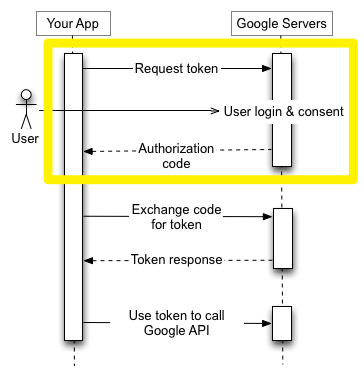
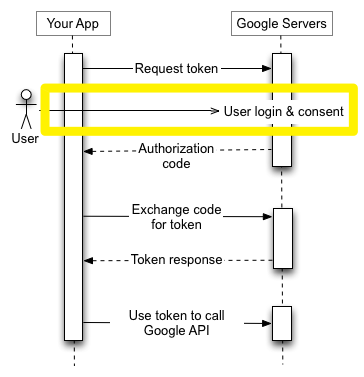
google-login-without-oauth2-client

Changed region(s): [[0.0907, 0.0875, 0.9973, 0.496]]

diff --git a/memo/oauth2/google-login-without-oauth2-client.md b/memo/oauth2/google-login-without-oauth2-client.md
@@ -112,7 +112,7 @@ javascript 요청이 아닌 브라우저 요청일 때 1\) 과 같은 주소 아
 
 
 
-로그인 동의 화면 
+실제 팝업에 나타나는 주소의 전체 URL 은 아래와 같습니다.
 
 - [https://accounts.google.com/o/oauth2/auth/oauthchooseaccount?client_id={clientId}&redirect_uri={base64 encoding 된 redirect uri}&response_type=token&scope=profile&service=lso&o2v=1&ddm=0&flowName=GeneralOAuthFlow](https://accounts.google.com/o/oauth2/auth/oauthchooseaccount?client_id={clientId}&redirect_uri={base64 encoding 된 redirect uri}&response_type=token&scope=profile&service=lso&o2v=1&ddm=0&flowName=GeneralOAuthFlow)
 
@@ -120,10 +120,8 @@ javascript 요청이 아닌 브라우저 요청일 때 1\) 과 같은 주소 아
 
 
 
-보기 좋게 정리해보면 아래와 같습니다. (브라우저에서만 동작해요)
-
 ```http
-GET https://accounts.google.com/o/oauth2/auth/oauthchooseaccount?
+https://accounts.google.com/o/oauth2/auth/oauthchooseaccount?
 	client_id={clientId}
 	&redirect_uri={base64 encoding 된 redirect uri}
 	&response_type=token
@@ -148,13 +146,14 @@ GET https://accounts.google.com/o/oauth2/auth/oauthchooseaccount?
 
 
 
-### 3) (액세스 토큰) 내 서버의 특정 주소로 리다이렉트
+### 3) (인증 코드 발급) 내 서버의 특정 주소로 리다이렉트
 
 토큰을 얻어오는 과정입니다. 구글 계정은 code 를 get parameter 에 실어서 아래와 같은 구글 콘솔에 입력한 주소로 리다이렉트 시켜줍니다.<br/>
 
 code 는 access token 을 받기 전의 중간 절차에 받는 일종의 인증 코드 같은 존재입니다.
 
 - [http://localhost:8080/welcome?code={code}&scope={scope}](http://localhost:8080/welcome?code={code}&scope={scope})
+- [http://localhost:8080/welcome](http://localhost:8080/welcome) 은 cloud.google.com 내의 개발자 콘솔에서 직접 입력한 리다이렉트 주소입니다.
 
 <br/>
 
@@ -170,43 +169,69 @@ code 는 access token 을 받기 전의 중간 절차에 받는 일종의 인증
 
 ![](./img/google-login-without-oauth2-client/2.png)
 
-이번 과정은 위 그림에서 두 번째 과정이며, 응답결과로 토큰을 획득하게 됩니다.<br/>
+이번 과정은 위 그림에서 두 번째 과정이며, 응답결과로 토큰을 획득하기 위한 중간 인증결과인 `code` 를 획득하게 됩니다.<br/>
+
+
+
+### 4\) code 를 기반으로 token 요청
+
+- 아래와 같은 로그인을 통해 발급받은 code 를 이용해서 POST 요청을 하며 그 결과로 Access Token 을 발급받습니다.
+- POST [https://oauth2.googleapis.com/token](https://oauth2.googleapis.com/token) {code, client\_id, clientSecret, redirect\_uri, grant\_type}
+
+
 
 <br/>
-
-
-
-### 4) (사용자 조회) 사용자가 동의한 OAuth2 정보 조회
-
-- 헤더 : `Authorization : Bearer {액세스토큰}` 을 주어서 아래 주소로 GET 조회합니다.
-- POST [https://oauth2.googleapis.com/token](https://oauth2.googleapis.com/token) {code, client\_id, clientSecret, redirect\_uri, grant\_type}
 
 
 
 ![](./img/google-login-without-oauth2-client/3.png)
 
-이번 과정은 사용자가 OAuth2 동의 화면에서 정보제공에 동의한 정보를 토큰을 이용해서 조회해오는 세번째 과정입니다.<br/>
+<br/>
+
+이번 과정은 위의 그림에서 노란색 테두리로 표시한 부분입니다.<br/>
+
+<br/>
 
 
 
-#### 참고
+응답형식의 구조는 아래와 같습니다.
 
-응답 바디를 구성하기 쉽지 않은데 초반에는 Map 을 사용하거나, JsonNode 를 사용해서 응답바디가 어떻게 되는지 파악하면 될 것 같습니다.<br/>
+```kotlin
+package io.chagchagchag.youtube.playlist_helper.api_client.domain.auth.dto
 
-참고 : https://darrenlog.tistory.com/40
-
-```java
-private JsonNode getUserResource(String accessToken, String registrationId) {
-    String resourceUri = env.getProperty("oauth2."+registrationId+".resource-uri");
-
-    HttpHeaders headers = new HttpHeaders();
-    headers.set("Authorization", "Bearer " + accessToken);
-    HttpEntity entity = new HttpEntity(headers);
-    return restTemplate.exchange(resourceUri, HttpMethod.GET, entity, JsonNode.class).getBody();
+data class GoogleTokenResponse (
+    val access_token: String,
+    val expires_in: String,
+    val scope: String,
+    val token_type: String,
+    val id_token: String,
+){
 }
 ```
 
 <br/>
+
+
+
+처음 개발 시에는 응답값이 어떻게 오는지 추측하기 쉽지 않습니다. 처음 개발시에는 Map\<String, Any\> 같은 타입으로 받아서 어떤 응답값이 오는지 확인하면 개발 시에 조금은 유용해집니다.
+
+![](./img/google-login-without-oauth2-client/map-response.png)
+
+<br/>
+
+
+
+### 5) 토큰을 이용해서 필요한 정보 조회
+
+- 헤더 : `Authorization : Bearer {액세스토큰}` 을 주어서 조회하는 과정입니다.
+
+
+
+![](./img/google-login-without-oauth2-client/4.png)
+
+
+
+
 
 
 
